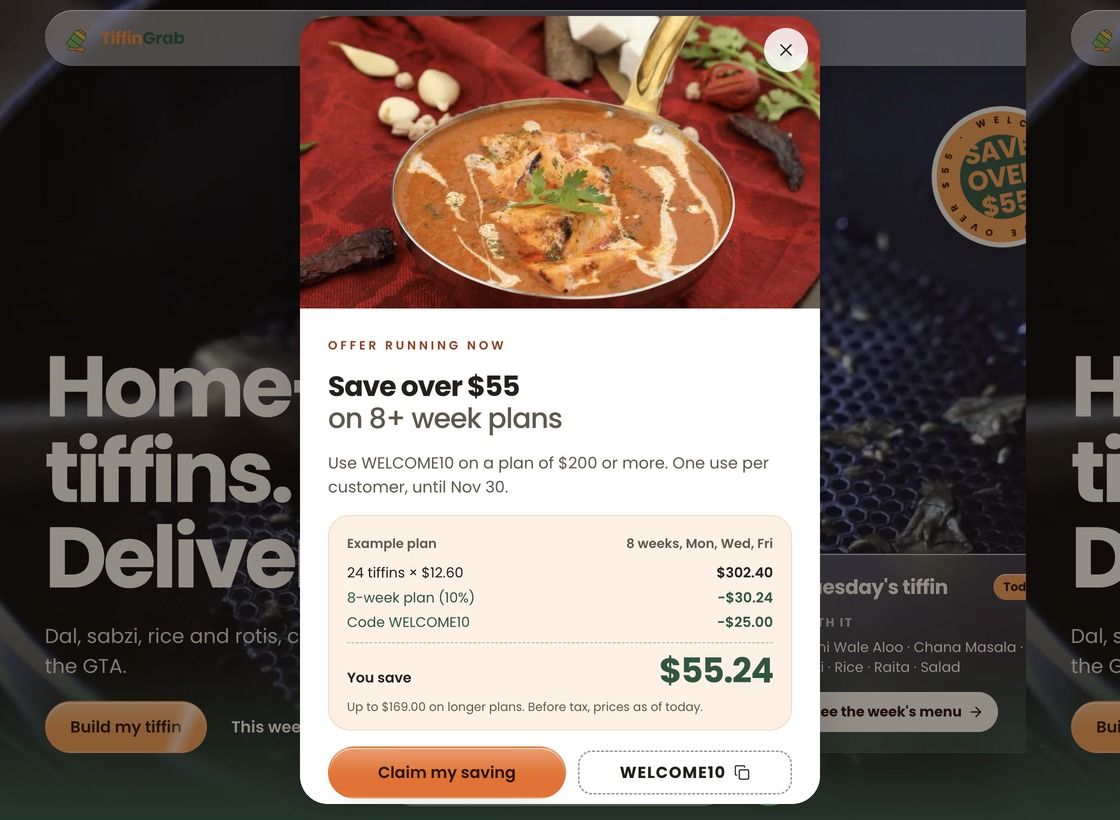
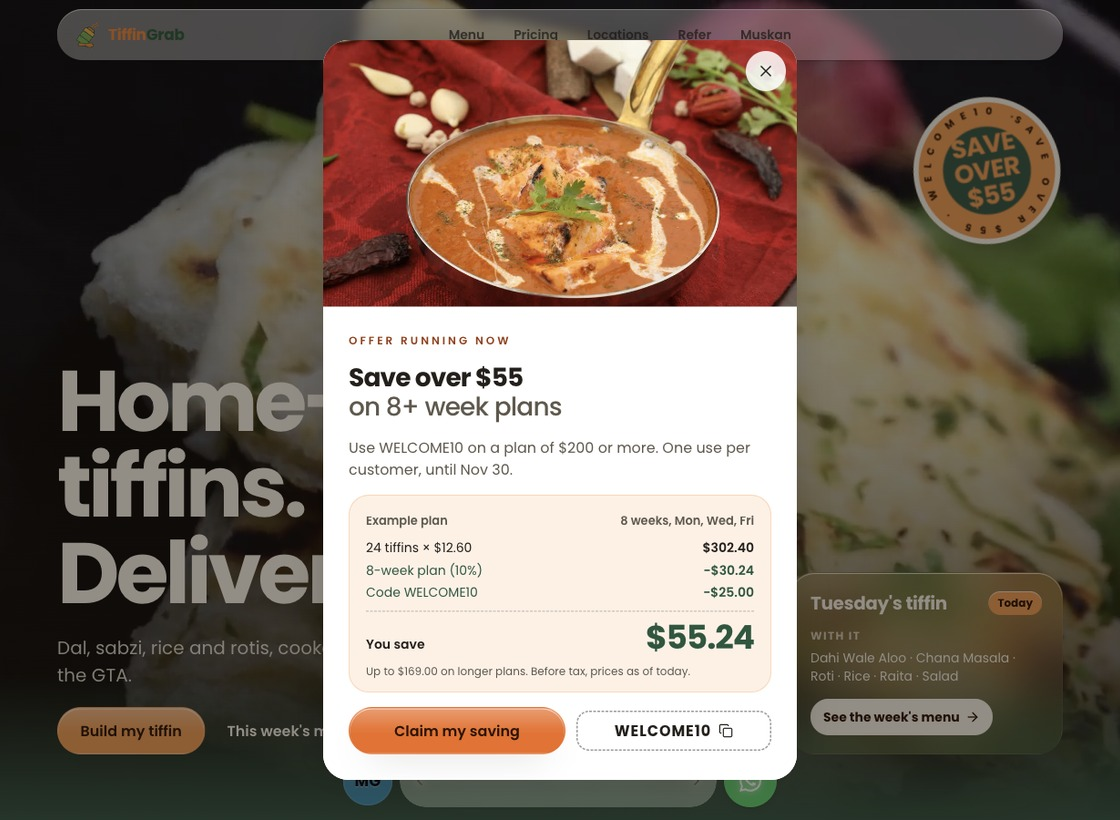
Fix stretched public screens and align shot tab padding.
Recapture menu/home/pricing without distortion, drop forced aspect-ratio object-fit on frames, and normalize shot button layout.

diff --git a/meal-subscriptions/index.html b/meal-subscriptions/index.html
@@ -133,16 +133,23 @@
     }
     .shots { display: flex; flex-direction: column; border: var(--border); background: var(--white); }
     .shot {
-      text-align: left; background: transparent; border: 0; border-bottom: var(--border);
-      padding: 14px 16px 12px; cursor: pointer; font: inherit; color: inherit;
+      appearance: none; -webkit-appearance: none;
+      display: flex; flex-direction: column; align-items: flex-start; justify-content: flex-start;
+      width: 100%; margin: 0; border-radius: 0; box-sizing: border-box;
+      text-align: left; background: var(--white); border: 0; border-bottom: var(--border);
+      padding: 14px 16px; cursor: pointer; font: inherit; color: inherit; line-height: 1.25;
     }
     .shot:last-child { border-bottom: 0; }
     .shot:hover { background: #f7f3ea; }
     .shot[aria-pressed="true"] { background: var(--lime); }
     .shot-kicker {
-      font-family: var(--mono); font-size: 0.66rem; letter-spacing: 0.08em; text-transform: uppercase;
+      display: block; font-family: var(--mono); font-size: 0.66rem;
+      letter-spacing: 0.08em; text-transform: uppercase; line-height: 1.3;
     }
-    .shot-title { display: block; margin-top: 4px; font-weight: 700; font-size: 1rem; letter-spacing: -0.02em; }
+    .shot-title {
+      display: block; margin-top: 4px; font-weight: 700; font-size: 1rem;
+      letter-spacing: -0.02em; line-height: 1.25;
+    }
     .frame {
       border: var(--border-thick); box-shadow: var(--shadow-lg); background: var(--black);
       width: 100%; min-width: 0;
@@ -164,18 +171,15 @@
       justify-self: center;
     }
     .frame img {
-      width: 100%; height: auto; aspect-ratio: 390 / 844;
-      object-fit: cover; object-position: top center; background: #111; margin: 0; display: block;
-      image-rendering: auto;
+      width: 100%; height: auto; display: block; margin: 0;
+      background: #111; image-rendering: auto;
     }
     .frame.wide {
       max-width: none; width: 100%; justify-self: stretch;
     }
     .frame.wide img {
-      width: 100%; height: auto; aspect-ratio: 16 / 10;
-      object-fit: cover; object-position: top center;
+      width: 100%; height: auto; display: block;
     }
-    #public .frame.wide img { aspect-ratio: 1120 / 820; }
     .caption {
       display: flex; justify-content: space-between; gap: 16px; padding: 14px 16px 16px;
       background: var(--white); border-top: var(--border);
